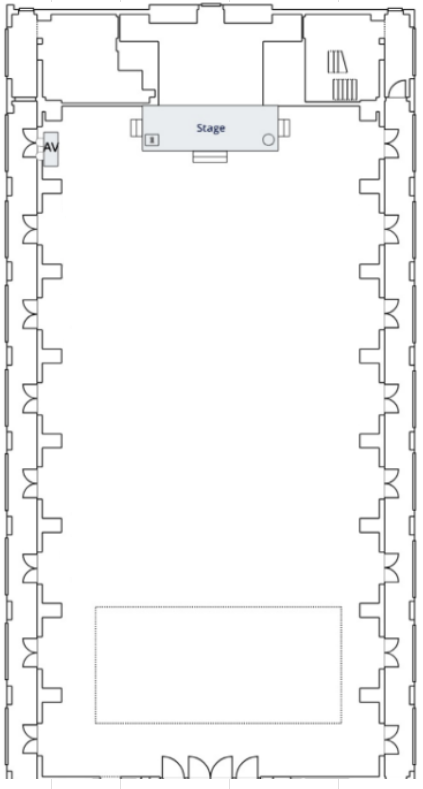
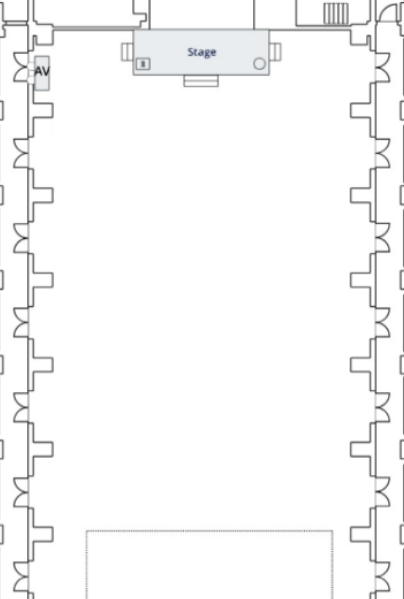
Update pin hash and layout image

Changed region(s): [[0.0, 0.0, 1.0, 1.0]]

diff --git a/checkin.js b/checkin.js
@@ -1,5 +1,5 @@
 import { signInAnonymously } from 'https://www.gstatic.com/firebasejs/10.12.0/firebase-auth.js';
-import { GUEST_PIN } from './config.js';
+import { GUEST_PIN_HASH } from './config.js';
 import {
   auth, tables,
   guestData, guestsByTable, arrivedGuests,
@@ -77,7 +77,7 @@ function renderPin(errorMsg) {
       </div>
     </div>`;
 
-  window.numpadPress = function(key) {
+  window.numpadPress = async function(key) {
     if (key === '⌫') {
       pinDigits.pop();
       renderPin();
@@ -88,7 +88,9 @@ function renderPin(errorMsg) {
     if (pinDigits.length === 4) {
       const pin = pinDigits.join('');
       pinDigits = [];
-      if (pin === GUEST_PIN) {
+      const buf = await crypto.subtle.digest('SHA-256', new TextEncoder().encode(pin));
+      const hash = Array.from(new Uint8Array(buf)).map(b => b.toString(16).padStart(2, '0')).join('');
+      if (hash === GUEST_PIN_HASH) {
         loadGuestsThenSearch();
       } else {
         renderPin('Incorrect PIN. Please try again.');

diff --git a/generate-config.js b/generate-config.js
@@ -1,5 +1,6 @@
 // Loads .env when running locally; in CI the runner sets env vars directly from secrets.
 require('dotenv').config();
+const crypto = require('crypto');
 
 const required = [
   'FIREBASE_API_KEY',
@@ -29,6 +30,8 @@ const {
   GUEST_PIN,
 } = process.env;
 
+const GUEST_PIN_HASH = crypto.createHash('sha256').update(GUEST_PIN).digest('hex');
+
 require('fs').writeFileSync('config.js',
 `// Auto-generated by generate-config.js — do not edit directly.
 export const firebaseConfig = {
@@ -41,7 +44,7 @@ export const firebaseConfig = {
   appId: "${FIREBASE_APP_ID}"
 };
 
-export const GUEST_PIN = '${GUEST_PIN}';
+export const GUEST_PIN_HASH = '${GUEST_PIN_HASH}';
 `);
 
 console.log('config.js generated successfully.');